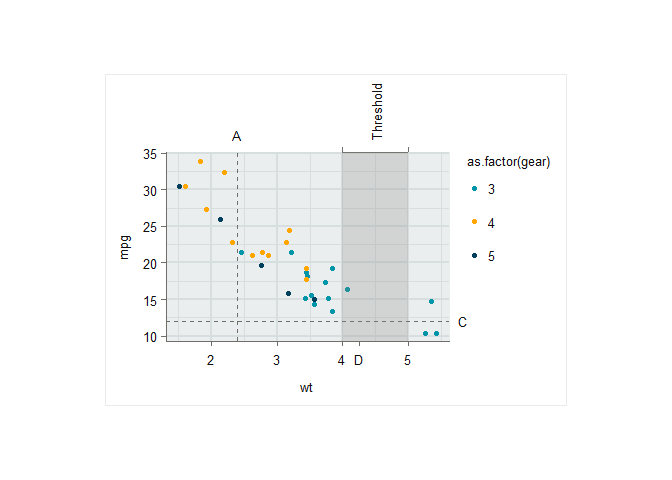
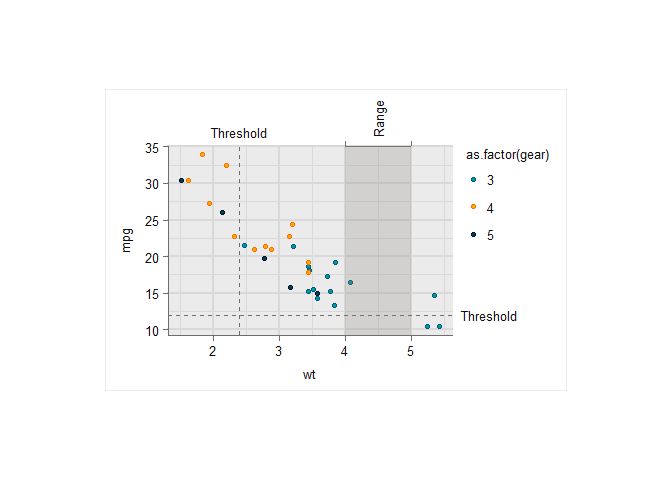
Update

diff --git a/README.md b/README.md
@@ -14,17 +14,19 @@ Visualisation.
 
 Note:
 
-- `sec_axis_annotate` adjusts space in the plot, whereas `*` functions
-  do not.
+- To avoid namespace collisions, it is recommended to not load the
+  package, but instead refer to each function with the package name
+  (e.g. `ggscribe::sec_axis()`.
+- `sec_axis` adjusts space in the plot, whereas `*` functions do not.
 - `axis_ticks`, `axis_text` and `axis_bracket` require (1) a globally
   set theme with explicit panel dimensions and (2)
   `coord_cartesian(clip = "off")`
 - `panel_shade` must be before geoms.
 - `reference_line` should be before geoms.
 - Where you require annotation text along a axis with different angles
-  etc, use a combination of `sec_axis_annotate` and `*` functions. The
-  `sec_axis_annotate` function should include the annotation that
-  requires the maximum space that you want the plot to adjust to.
+  etc, use a combination of `sec_axis` and `axis_*` functions. The
+  `sec_axis` function should include the annotation that requires the
+  maximum space that you want the plot to adjust to.
 
 ## Installation
 
@@ -37,6 +39,8 @@ pak::pak("davidhodge931/ggscribe")
 ```
 
 ## Example
+
+ggscribe provides various axis and panel annotation helper functions.
 
 ``` r
 library(ggplot2)
@@ -52,13 +56,14 @@ set_theme(
 mtcars |>
   ggplot(aes(x = wt, y = mpg, colour = as.factor(gear), fill = as.factor(gear))) +
   coord_cartesian(clip = "off") +
+  scale_colour_discrete(palette = blends::multiply(get_theme()$palette.colour.discrete)) +
   ggscribe::reference_line(xintercept = 2.4) +
   ggscribe::reference_line(yintercept = 12)  +
   geom_point() +
   scale_x_continuous(
     sec.axis = ggscribe::sec_axis(
       breaks = c(mean(c(4, 5))),
-      labels = c("Threshold"),
+      labels = c("Range"),
       guide = ggscribe::guide_axis(
         angle = 90,
       )
@@ -67,12 +72,12 @@ mtcars |>
   ggscribe::axis_text(
     position = "top",
     breaks = c(2.4),
-    labels = c("A"),
+    labels = c("Threshold"),
   ) +
   ggscribe::axis_text(
       position = "right",
       breaks = 12,
-      labels = "C",
+      labels = "Threshold",
   ) +
   ggscribe::axis_bracket(
     position = "top",
@@ -82,16 +87,42 @@ mtcars |>
     xmin = 4,
     xmax = 5,
   ) +
-  ggscribe::axis_text(
-    position = "bottom",
-    breaks = 4.25,
-    labels = "D",
-  ) +
-  ggscribe::axis_ticks(
-    position = "bottom",
-    breaks = 4.25,
-  ) +
-  theme(plot.background = element_rect(colour = "grey92")) 
+  ggrefine::hybrid() +
+  theme(plot.background = element_rect(colour = "grey92"))
 ```
 
 <img src="man/figures/README-unnamed-chunk-2-1.png" alt="" width="100%" />
+
+And a function to ensure text is easily coloured for contrast on a fill
+aesthetic.
+
+``` r
+ggwidth::set_equiwidth(equiwidth = 1.75)
+
+mtcars |>
+  count(cyl, am) |>
+  mutate(
+    am = if_else(am == 0, "Automatic", "Manual"),
+    cyl = as.factor(cyl)
+  ) |>
+  ggplot(aes(x = am, y = n, colour = cyl, fill = cyl, label = n)) +
+  geom_col(
+    position = position_dodge2(preserve = "single", padding = 0.05),
+    width = ggwidth::get_width(n = 2, n_dodge = 3),
+  ) +
+  scale_fill_discrete(palette = jumble::jumble) +
+  scale_colour_discrete(palette = blends::multiply(jumble::jumble)) +
+  geom_text(
+    mapping = ggscribe::aes_contrast(), # or aes(!!!ggscribe::aes_contrast()),
+    position = position_dodge2(
+      width = ggwidth::get_width(n = 2, n_dodge = 3),
+      padding = 0.05,
+      preserve = "single"),
+    vjust = 1.33,
+    show.legend = FALSE,
+  ) +
+  scale_y_continuous(expand = expansion(c(0, 0.05))) +
+  ggrefine::hybrid(x_type = "discrete")
+```
+
+<img src="man/figures/README-unnamed-chunk-3-1.png" alt="" width="100%" />
